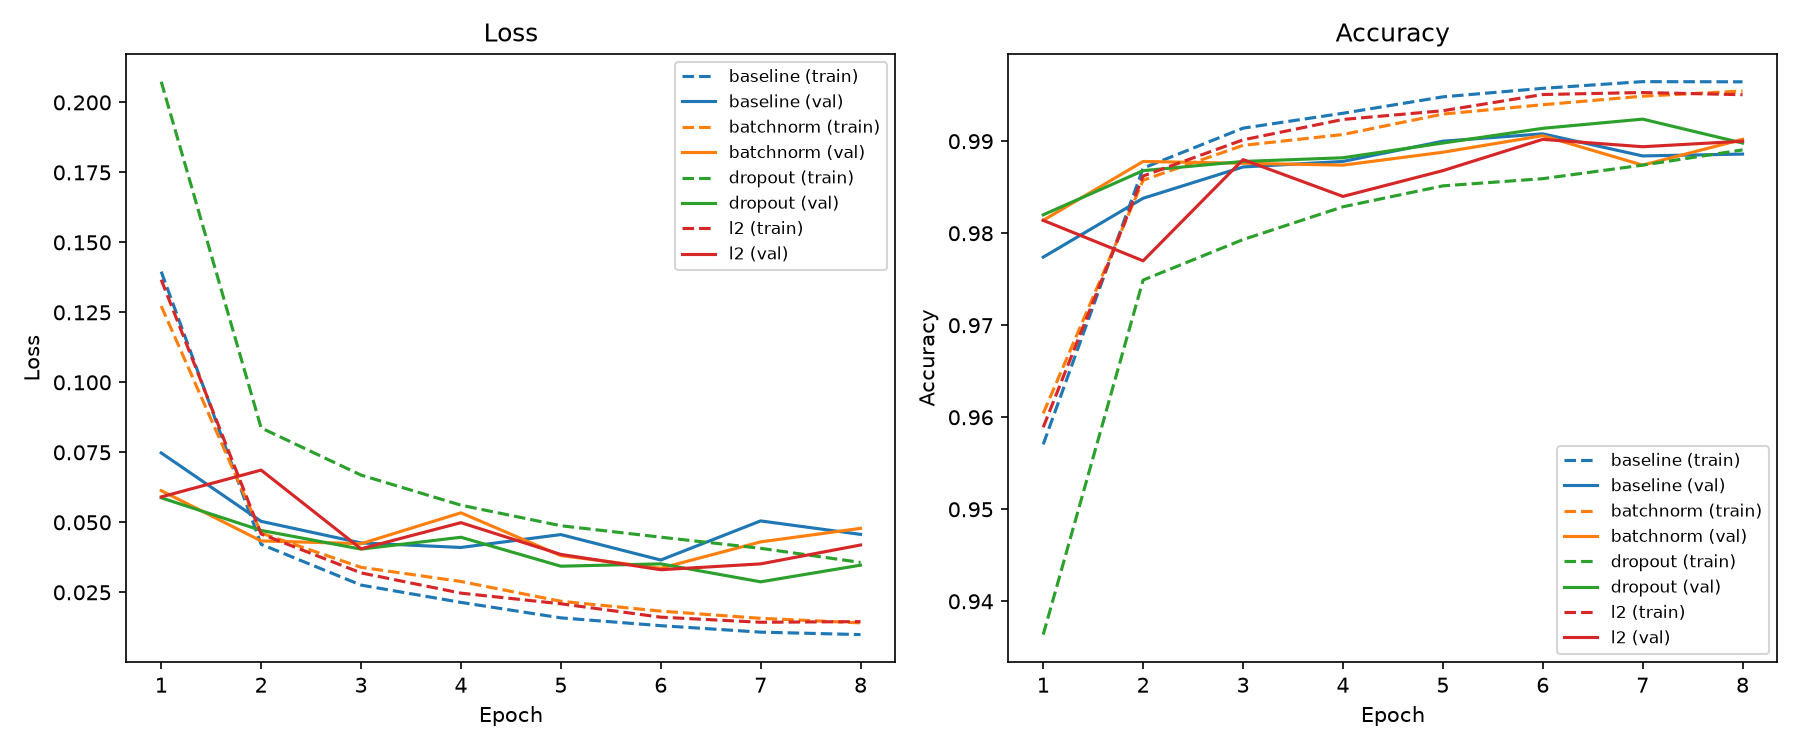
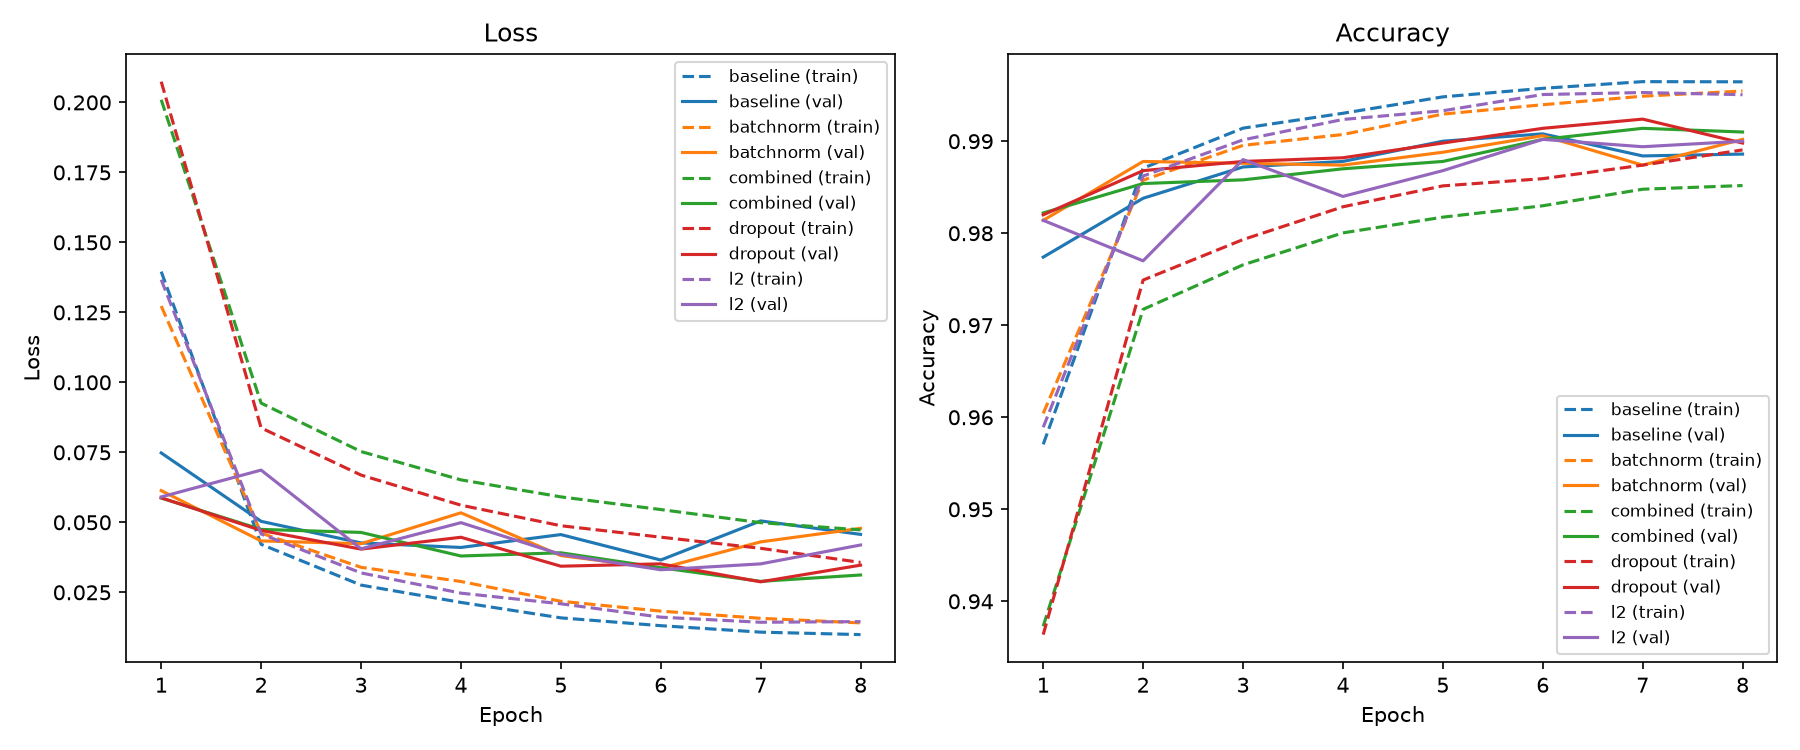
added test set results

diff --git a/inspect_failures.py b/inspect_failures.py
@@ -1,3 +1,5 @@
+import json
+
 import matplotlib.pyplot as plt
 import torch
 import torch.nn as nn
@@ -11,6 +13,7 @@ VARIANTS = {
     "dropout": dict(dropout_p=0.4),
     "batchnorm": dict(use_batchnorm=True),
     "l2": dict(),
+    "combined": dict(dropout_p=0.4, use_batchnorm=True),
 }
 
 
@@ -62,8 +65,15 @@ if __name__ == "__main__":
         test_accs[name] = test_acc
         print(f"{name:10s} test_loss={test_loss:.4f} test_acc={test_acc:.4f}")
 
-    best_name = max(test_accs, key=test_accs.get)
-    print(f"\nInspecting {best_name} model's predictions")
+    # Select which model to inspect by *validation* loss, not test accuracy --
+    # using test results to pick a model would defeat the point of holding it out.
+    best_val_losses = {}
+    for name in VARIANTS:
+        with open(f"runs/{name}/history.json") as f:
+            best_val_losses[name] = min(json.load(f)["history"]["val_loss"])
+    best_name = min(best_val_losses, key=best_val_losses.get)
+    print(f"\nSelected by validation loss: {best_name} (val_loss={best_val_losses[best_name]:.4f})")
+    print(f"Inspecting {best_name} model's predictions")
     model = models[best_name]
 
     failures = collect_examples(model, test_loader, device, want_correct=False)

diff --git a/train.py b/train.py
@@ -82,5 +82,5 @@ def run_training(model, run_name, epochs=8, lr=1e-3, weight_decay=0.0, batch_siz
 
 
 if __name__ == "__main__":
-    model = CNN()
-    run_training(model, run_name="l2", epochs=8, weight_decay=1e-4)
+    model = CNN(dropout_p=0.4, use_batchnorm=True)
+    run_training(model, run_name="combined", epochs=8, weight_decay=1e-4)

diff --git a/README.md b/README.md
@@ -14,9 +14,9 @@ one shared baseline architecture.
   fc(3136→128) → relu → [dropout] → fc(128→10).
 - **Training**: CrossEntropyLoss, Adam, lr=1e-3, batch size 64, 8 epochs,
   same random seed for the train/val split across all runs.
-- All four variants share this architecture and training config, changing
-  exactly one thing at a time, so differences in the curves are attributable
-  to that one change.
+- The first four variants change exactly one thing at a time relative to the
+  baseline, so differences in the curves are attributable to that one change.
+  A fifth `combined` variant stacks all three together.
 
 ## Variants and results (epoch 8)
 
@@ -26,9 +26,10 @@ one shared baseline architecture.
 | + Dropout (p=0.4) | 98.91% | 98.98% | -0.07 pt | Slowest to converge, smallest gap, best val loss overall |
 | + BatchNorm | 99.55% | 99.02% | 0.53 pt | Fastest early convergence, modest gap reduction |
 | + L2 (weight_decay=1e-4) | 99.51% | 99.00% | 0.51 pt | Same convergence shape as baseline, uniformly smaller gap |
+| + Combined (dropout + batchnorm + L2) | 98.52% | 99.10% | -0.58 pt | Still under-fit at epoch 8 — regularizers compound, need more epochs to reach full capacity |
 
 See `runs/comparison.png` for train/val loss and accuracy curves across all
-four variants (one color per variant, dashed = train, solid = val).
+five variants (one color per variant, dashed = train, solid = val).
 
 ### What each addition changed, and why
 
@@ -50,6 +51,53 @@ four variants (one color per variant, dashed = train, solid = val).
   At `weight_decay=1e-4` the effect was a modest, uniform reduction in the
   train/val gap without changing the shape of the training curve — same
   convergence speed as baseline, just consistently less overfit.
+- **Combining all three** compounds each one's "handicap training" effect
+  (dropout zeroes activations, L2 pulls weights toward zero, batch norm adds
+  batch-statistics noise), so the model needs more epochs to reach the same
+  training fit the individual variants got to alone. At a fixed 8 epochs it's
+  still visibly under-fit (lowest train accuracy of all five, and still
+  climbing) — regularization strength is a budget spent against the epoch
+  budget, not a free win.
+
+## Test set results
+
+The test set (10k images, separate from the 55k/5k train/val split) was
+touched exactly once, at the end, after all training and model-selection
+decisions were already made from validation metrics — using it earlier or to
+pick a variant would bias it as a measure of generalization.
+
+**Model selection was based on validation loss, not test accuracy.** Dropout
+had the best validation loss (0.0287) of all five variants and was selected
+as the "final" model before test evaluation. For comparison purposes only,
+test accuracy is reported for all five below:
+
+| Variant | Test Loss | Test Acc |
+|---|---|---|
+| Baseline | 0.0428 | 98.94% |
+| Dropout (selected) | 0.0254 | 99.21% |
+| BatchNorm | 0.0405 | 98.83% |
+| L2 | 0.0291 | 98.99% |
+| Combined | 0.0237 | 99.24% |
+
+Note combined edges out dropout slightly on this particular test set
+(99.24% vs 99.21%) — but since combined wasn't the validation-selected model,
+this difference isn't used to change the selection after the fact. That
+would be using the test set to make a modeling decision, exactly what
+holding it out is meant to prevent. It's also a small enough gap (3 examples
+out of 10,000) to plausibly be noise rather than a real difference.
+
+### What the errors look like
+
+`inspect_failures.py` pulls misclassified and correctly-classified examples
+from the selected (dropout) model on the test set:
+
+- `runs/failures.png` — of 10,000 test images, only 16-17 are misclassified.
+  Nearly all are genuinely ambiguous or badly-formed handwriting (unclosed
+  loops, ambiguous strokes) rather than clean digits the model should
+  obviously get right — a sign the model learned real digit structure rather
+  than a spurious shortcut.
+- `runs/successes.png` — for contrast, correctly classified examples are
+  mostly clean, unambiguous handwriting.
 
 ## CPU vs GPU timing
 
@@ -77,5 +125,7 @@ more dramatically.
   per run under `runs/<name>/`.
 - `plot_runs.py` — reads all saved runs and plots loss/accuracy comparison.
 - `timing_comparison.py` — CPU vs GPU wall-clock comparison.
-- `runs/` — one folder per run (`baseline`, `dropout`, `batchnorm`, `l2`),
-  each with `history.json` (metrics) and `model.pth` (weights).
+- `inspect_failures.py` — final test-set evaluation for all variants, plus
+  misclassified/correct example grids for the validation-selected model.
+- `runs/` — one folder per run (`baseline`, `dropout`, `batchnorm`, `l2`,
+  `combined`), each with `history.json` (metrics) and `model.pth` (weights).
